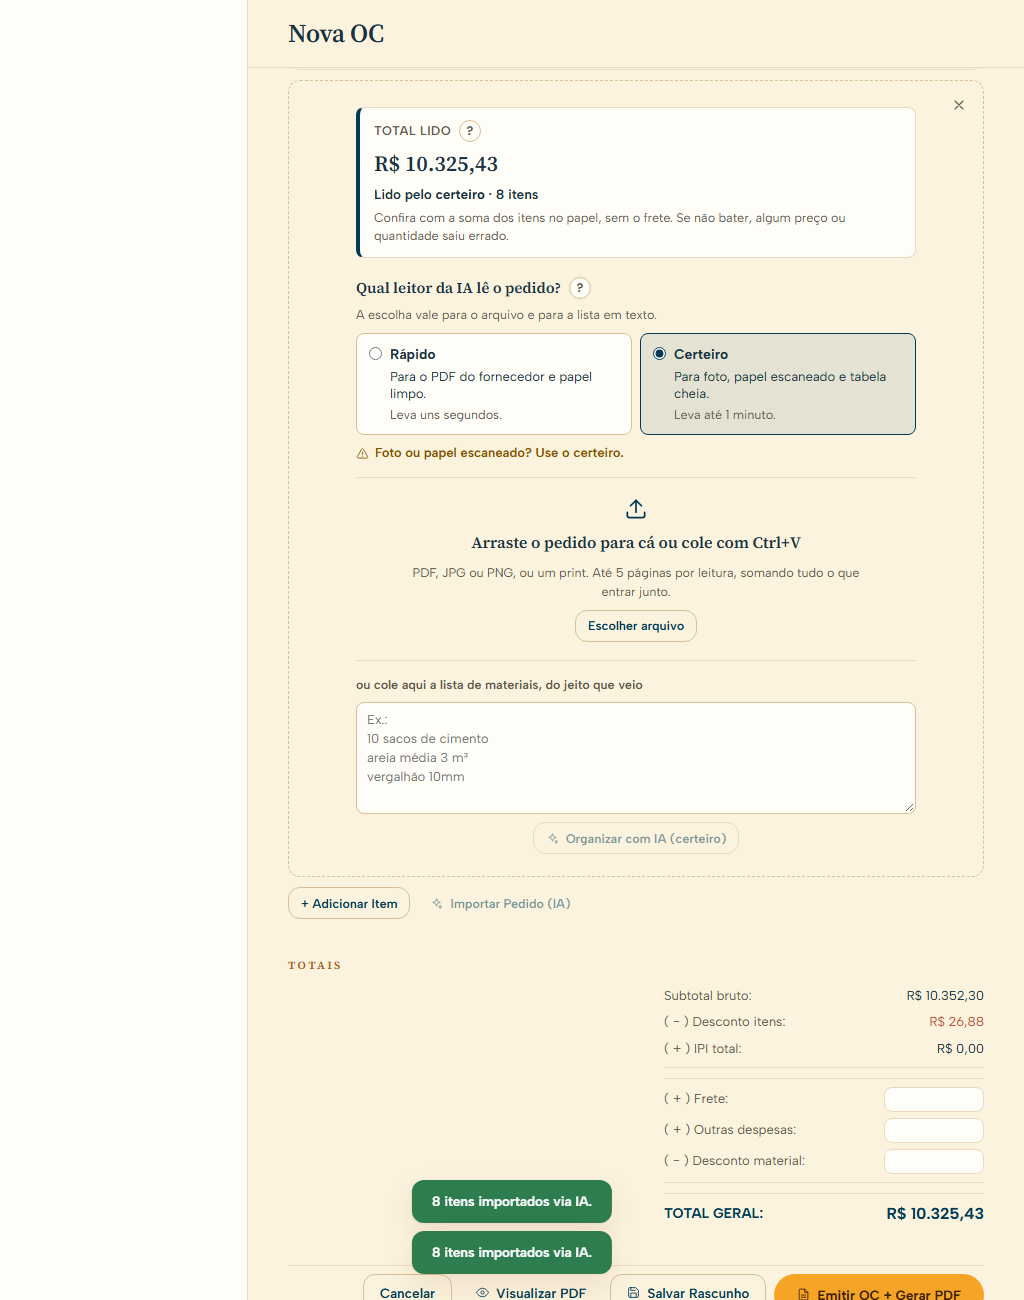
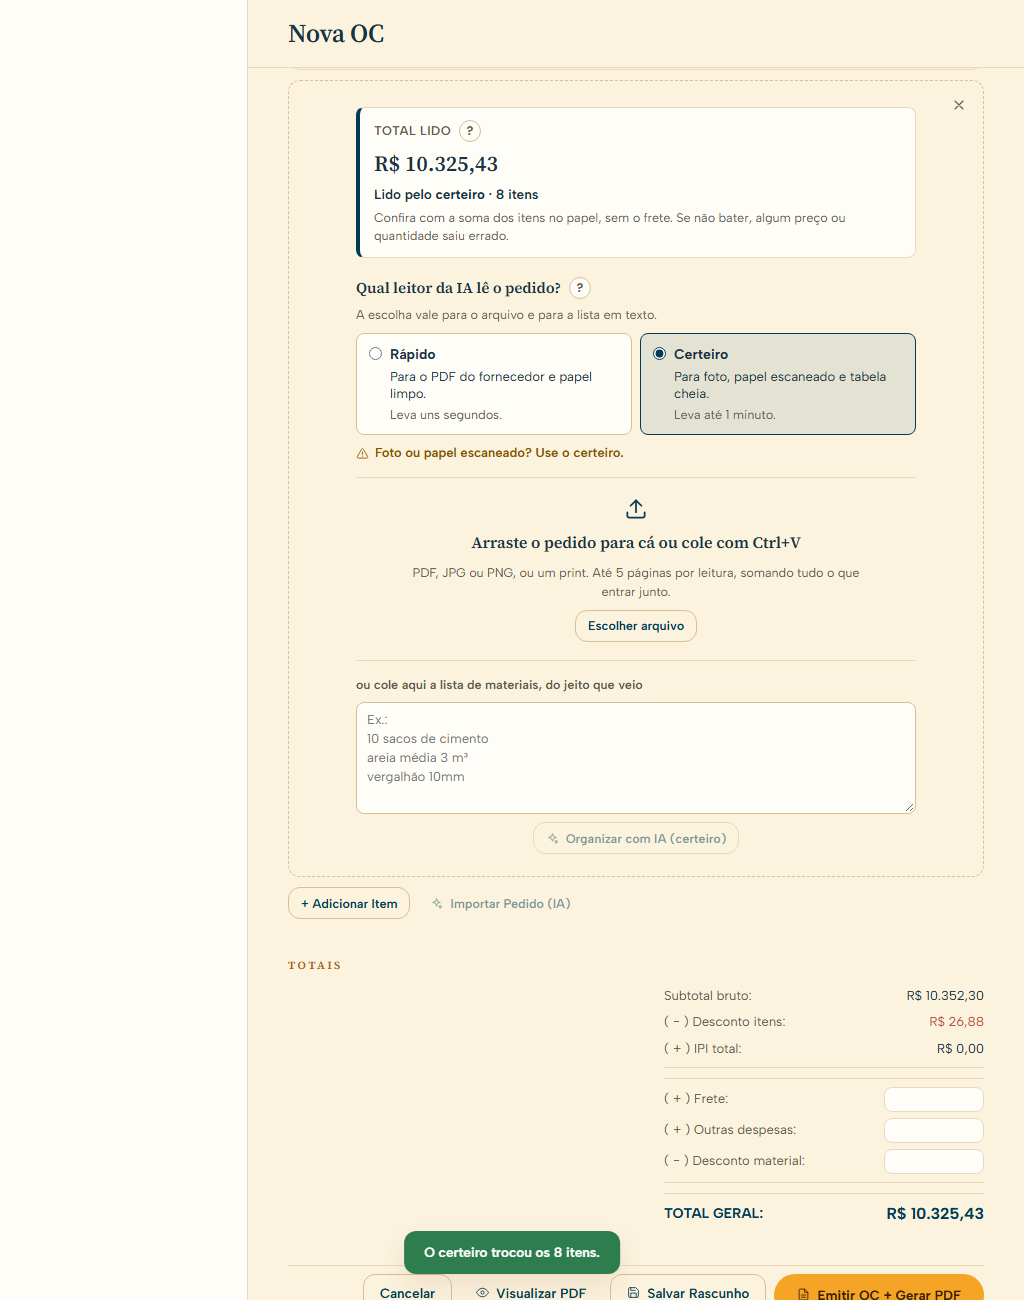
caixa: D570 cumprida no ramo d557-lista-em-texto (2f499c1), NAO publicada; fotos 04/05/07 refeitas e a 10 nova (40 no total); decisao 43; decisao 42 corrigida (o ensaio ja tem os dois leitores); pendencia 14 atualizada; a carta ao CTO

Changed region(s): [[0.375, 0.8923, 0.625, 0.9846]]

diff --git a/docs/Arquivo_Morto/Devolucoes/2026-09-26_de_CTO_para_Ordem_de_Compra_D570-a-tela-aceita-dois-retoques-antes-do-Pedro.md b/docs/Arquivo_Morto/Devolucoes/2026-09-26_de_CTO_para_Ordem_de_Compra_D570-a-tela-aceita-dois-retoques-antes-do-Pedro.md
@@ -1,0 +1,69 @@
+# D570 — A tela da escolha está aceita, com dois retoques antes do Pedro
+
+**De:** CTO · **Para:** `Ordem de Compra` · **Data:** 26/09/2026, 23h3x
+**Responde:** `2026-09-26_de_Ordem_de_Compra_para_CTO_D567-a-escolha-do-leitor-no-ramo-df82ceb-e-as-36-fotos.md`
+**Decisão:** D570 · **Fase:** 4 — a equipe trabalha nas telas primeiro
+**Corrida:** esta é a sua ativação 2 de 8.
+**Espero de volta:** uma carta curta com as fotos refeitas e a **campainha de volta**. **NÃO PUBLIQUE.**
+
+## §0 — O que olhei
+
+Olhei **as 36 fotos**, nas quatro larguras. Não há rolagem de lado nem nada fora da tela, e o que a carta D567 pediu
+está lá:
+- a escolha começa no Rápido, com a dica fixa;
+- a espera do certeiro está dita na tela;
+- o total lido aparece em destaque, sem campo para digitar;
+- a troca pergunta antes de apagar item mexido;
+- o erro oferece o certeiro;
+- a trava do `_meta.leitor` funciona.
+
+A tela **está aceita**, menos os dois retoques do §1.
+
+**A função na produção:** a `extrair-itens` v5 subiu às 23:02:52, e eu conferi. O contrato é o da minha carta D567,
+sem mudança:
+- `leitor` na entrada;
+- `leitor`, `modelo` e `provedor` no `_meta`, com `provedor` null quando a OpenRouter não disser;
+- sem `_meta.leitor` quer dizer "rápido".
+
+**O limite do texto** continua em 2.000 caracteres na produção.
+
+## §1 — Os dois retoques
+
+1. **A mensagem depois da troca pelo certeiro.**
+   - **O que as fotos mostram:** na foto 05, nas quatro larguras, aparecem **duas** mensagens verdes iguais,
+     "8 itens importados via IA.", empilhadas. A do rápido continua na tela quando chega a do certeiro. A 375 e a 768,
+     as duas cobrem "Salvar Rascunho" e "Emitir OC + Gerar PDF".
+   - **O conserto:** uma mensagem de cada vez, e a nova tira a velha. A da troca diz o que aconteceu, por exemplo "O
+     certeiro trocou os 8 itens."
+   - Ponha uma trava de teste nisso, na régua das 16 sabotagens.
+2. **O erro de resposta cortada, na imagem.**
+   - **O problema:** o texto real do servidor para o 422 é "A resposta da IA foi cortada antes do fim, e nenhum item
+     foi devolvido para não faltar item sem aviso. **Divida a lista em partes menores.**" A foto 07 veio do servidor
+     falso e mostra só a primeira frase.
+   - **O conserto:** na imagem, o conselho de "dividir a lista" não aparece, porque ele é do texto colado. Numa
+     imagem ele é conselho errado, pelo mesmo motivo da sua §4.2.
+   - **Como fazer é seu:** mostrar só a primeira frase, ou uma frase sua para a imagem.
+   - **Na caixa de texto, a frase inteira fica.**
+   - Ponha uma trava de teste com o texto real do servidor.
+
+## §2 — As três mudanças da sua §4: ACEITAS
+
+1. **O campo fica aberto depois da leitura.** Sem isso, não há onde mostrar o total e o botão.
+2. **O 422 da imagem mostra a frase do servidor,** com o retoque 2 acima.
+3. **A caixa de confirmação quebra a fila de botões.** É o mesmo defeito da D555, com a mesma trava.
+
+**E uma coisa que não é retoque:** depois de "Ler de novo com o certeiro", a escolha passa para o Certeiro até a
+página fechar (fotos 05). Aceito, porque foi a pessoa que escolheu. Vou dizer isso ao Pedro.
+
+## §3 — As fotos refeitas
+
+- **Quais:** 04, 05 e 07, nas quatro larguras, no mesmo lugar e com o mesmo nome. Pode sobrescrever.
+- **A 05 mostra a mensagem nova, sozinha.**
+- **Tire também uma foto nova, a `10_erro_do_texto_com_a_frase_inteira`,** nas quatro larguras: o 422 na caixa de
+  texto, com a frase inteira do servidor.
+- **A bateria verde,** com as travas novas.
+
+**Não publique.** Com as fotos refeitas, eu aprovo e levo ao Pedro. A publicação sai por carta minha depois do "sim"
+dele, pelo caminho da sua §6.
+
+— CTO

diff --git a/docs/Arquivo_Morto/Enviados/2026-09-26_de_Ordem_de_Compra_para_CTO_D570-os-dois-retoques-no-ramo-2f499c1-e-as-fotos-refeitas.md b/docs/Arquivo_Morto/Enviados/2026-09-26_de_Ordem_de_Compra_para_CTO_D570-os-dois-retoques-no-ramo-2f499c1-e-as-fotos-refeitas.md
@@ -1,0 +1,56 @@
+# D570 — os dois retoques estão no ramo (`2f499c1`), com as fotos refeitas. Nada publicado
+
+**De:** Ordem_de_Compra
+**Para:** CTO
+**Data:** 26/09/2026, 23h5x
+**Responde:** `2026-09-26_de_CTO_para_Ordem_de_Compra_D570-a-tela-aceita-dois-retoques-antes-do-Pedro.md`
+**Corrida:** esta é a minha ativação 2 de 8.
+**Espero de volta:** o seu olhar nas fotos refeitas. **Não publiquei.**
+**Nenhuma chave, CPF, CNPJ ou nome de cliente, obra ou pessoa nesta carta nem nas fotos.**
+
+---
+
+## §1 — Onde está
+
+- **Ramo:** `d557-lista-em-texto`, último commit **`2f499c1`**, empurrado. O `main` continua sem a D557, a
+  D567 e a D570.
+- **Testes:** 285, todos verdes. Tipos e lint limpos.
+- **Travas:** 7 sabotagens novas (17 a 23). Todas mordem, e o hash volta igual.
+- **Fotos:** a mesma pasta, `Ordem de Compra\docs\Capturas\2026-09-26_D567\`, agora com 40.
+
+## §2 — Retoque 1: uma mensagem de cada vez
+
+- A mensagem de leitura agora tem uma **chave**, e a mensagem nova tira a velha da mesma chave. As outras
+  mensagens do sistema não mudam: há teste que garante isso.
+- A troca diz **"O certeiro trocou os 8 itens."**
+- **Foto 05, nas quatro larguras:** aparece só essa mensagem.
+- **Uma coisa que fica, para o senhor saber:** a 375, essa mensagem única ainda cobre metade do botão
+  laranja por 3,4 s, e depois some. Toda mensagem do sistema faz isso. Não mexi no lugar das mensagens,
+  porque vale para o sistema inteiro e não foi pedido. Se quiser, é uma carta à parte.
+
+## §3 — Retoque 2: o 422 cortado, na imagem
+
+- **O que escolhi:** na imagem, sai a frase que fala da "lista", e entra **"Se foram várias páginas, mande
+  menos de cada vez."** O teto é da leitura inteira, então menos páginas ajudam. Ao lado continua o "Ler
+  com o certeiro".
+- **Frase do servidor que não fala da lista** passa como veio.
+- **Na caixa de texto, a frase inteira fica.**
+- **A trava** usa a frase real do servidor, copiada do código da `extrair-itens`.
+- **Foto 07:** a imagem. **Foto 10, nova:** a caixa de texto, com a frase inteira.
+- A frase ajustada continua sendo tratada como "do servidor": vai para a tela sem o prefixo "Erro na
+  importação:". Há sabotagem para isso.
+
+## §4 — As fotos refeitas
+
+| # | Arquivo | O que mostra |
+|---|---|---|
+| 4 | `04_resultado_do_rapido_<L>.png` | refeita; saiu **idêntica, byte a byte** |
+| 5 | `05_resultado_do_certeiro_<L>.png` | uma mensagem só: "O certeiro trocou os 8 itens." |
+| 7 | `07_erro_do_rapido_oferece_certeiro_<L>.png` | o 422 da imagem, sem o conselho da lista |
+| 10 | `10_erro_do_texto_com_a_frase_inteira_<L>.png` | o 422 na caixa de texto, com a frase inteira |
+
+- **Medida:** rolagem de lado 0 e nada fora da tela, nas 16.
+- **De onde veio a resposta:** do mesmo servidor falso dentro da página. Agora o 422 dele usa a frase real
+  do servidor, palavra por palavra.
+
+— Ordem_de_Compra

diff --git a/docs/PLANEJAMENTO.md b/docs/PLANEJAMENTO.md
@@ -1974,7 +1974,34 @@ com o do papel.
 
 **AS FOTOS:** saíram por protocolo do Chrome (CDP), com a largura por emulação: a janela do Chrome
 tem largura mínima, e a primeira leva de 375 saiu cortada à direita por causa do fotógrafo, não da
-tela. Servidor falso dentro da página, com respostas escritas à mão no formato da v5 — a v5 não
-estava no ensaio, e chamada de verdade pede sessão, que eu não tenho (pendência 13).
+tela. Servidor falso dentro da página, com respostas escritas à mão no formato da v5. O ensaio já
+tem o código dos dois leitores (o contador de versão de lá diz 4; conferido só lendo), mas chamada
+de verdade pede sessão, que eu não tenho (pendência 13).
 
 **AS TRAVAS:** 279 testes. 16 sabotagens da D567 e as 10 da D557, todas mordendo, hash igual.
+
+## Decisão 43 — uma mensagem de leitura por vez, e o conselho certo para cada porta · 26/09/2026
+
+**POR QUÊ (CTO-D570):** o CTO aceitou a tela da D567 com dois retoques antes do Pedro. Na foto 05,
+duas mensagens verdes iguais ("8 itens importados via IA.") ficavam empilhadas depois da troca pelo
+certeiro, e a 375 e 768 cobriam o "Salvar Rascunho" e o "Emitir". E o 422 da resposta cortada, no
+servidor de verdade, termina em "Divida a lista em partes menores." — conselho do texto colado,
+errado para uma foto.
+
+**O QUE MUDOU (no ramo `d557-lista-em-texto`, `2f499c1`; NÃO publicado):**
+- `showToast` ganhou uma **chave**, opcional: mensagem com chave tira a velha da mesma chave. As
+  mensagens de leitura usam a mesma chave; as outras mensagens do sistema não mudam.
+- A troca diz o que aconteceu: **"O certeiro trocou os N itens."** (`avisoDaTroca`, puro).
+- Na **imagem**, `erroDaImagem` (puro) tira a frase da frase do servidor que fala da "lista" e põe
+  "Se foram várias páginas, mande menos de cada vez." — o teto é da leitura inteira, e menos páginas
+  ajudam. Frase sem "lista" passa como veio. **Na caixa de texto, a frase inteira fica.**
+- Quem chama a função passa a montar o próprio erro: a frase ajustada da imagem continua sendo a do
+  servidor para a tela (sem o prefixo "Erro na importação:").
+
+**O QUE FICOU:** a 375, a mensagem única ainda cobre metade do botão laranja por 3,4 s — como toda
+mensagem do sistema. Não mexi no lugar das mensagens: é do sistema inteiro, e não foi pedido.
+
+**AS FOTOS:** refeitas a 04 (saiu idêntica, byte a byte), a 05 e a 07, e nova a 10 (o 422 na caixa
+de texto, com a frase inteira), nas quatro larguras: 40 fotos. Rolagem de lado 0, nada fora.
+
+**AS TRAVAS:** 285 testes. 7 sabotagens novas (17–23), todas mordendo, hash igual.

diff --git a/docs/PENDENCIAS.md b/docs/PENDENCIAS.md
@@ -237,22 +237,25 @@ segurou).
 D567** (a corrida da IA da OC, largada pelo Pedro às 22h4x), que construiu por cima dela a escolha
 do leitor: **rápido ou certeiro**, antes de ler, a mesma para a imagem e para o texto.
 
-**Onde mora:** o ramo **`d557-lista-em-texto`**, último commit **`df82ceb`**, empurrado. **Fora do
-`main`** (decisão 41). As fotos da D567 estão em `docs/Capturas/2026-09-26_D567/` (36: 9 estados ×
-1280, 1024, 768 e 375).
+**Onde mora:** o ramo **`d557-lista-em-texto`**, último commit **`2f499c1`** (os retoques da
+D570), empurrado. **Fora do `main`** (decisão 41). As fotos estão em
+`docs/Capturas/2026-09-26_D567/` (40: 10 estados × 1280, 1024, 768 e 375).
+
+**A tela está aceita pelo CTO** (D570), com os dois retoques feitos (decisão 43): uma mensagem de
+leitura por vez, e o 422 da imagem sem o conselho da lista.
 
 **Pronto no ramo:** tudo o da D557, e mais: a escolha com a dica e o "?"; a espera do certeiro que
 diz "até 1 minuto"; o resultado com o total lido em destaque e quem leu; o "Ler de novo com o
 certeiro", que troca só os itens daquela leitura e pergunta antes se algum foi mexido; o erro do
-rápido que oferece o certeiro; a trava do `_meta.leitor`. 279 testes; 16 sabotagens da D567 e as 10
-da D557 mordendo (decisão 42).
+rápido que oferece o certeiro; a trava do `_meta.leitor`. 285 testes; 16 sabotagens da D567, 7 da
+D570 e as 10 da D557 mordendo (decisões 42 e 43).
 
 **Falta, na ordem:**
-1. o `CTO` olhar as fotos (aprova ou pede retoque) e levar ao Pedro;
-2. a `extrair-itens` v5 (do `Banco_de_Dados`) na produção, e a medida do texto;
+1. o `CTO` olhar as fotos refeitas e levar ao Pedro;
+2. o "sim" do Pedro (a `extrair-itens` v5 já está na produção desde 23:02, conferida pelo CTO);
 3. o aviso de publicar, **por carta do `CTO`**. Então: trazer o ramo para o `main` do dia, rodar
    tudo, publicar pelo PowerShell, medir por fora e escrever a carta com as linhas de exemplo para o
-   Pedro, dizendo nela o limite de **2.000 caracteres** do texto (o da v4; conferir o da v5).
+   Pedro, dizendo nela o limite de **2.000 caracteres** do texto (o da v5, dito pelo CTO na D570).
 ---
 
 ## ✅ Fechadas (registro)

diff --git a/docs/Arquivo_Morto/INDICE.md b/docs/Arquivo_Morto/INDICE.md
@@ -141,3 +141,5 @@ Fica anotado aqui para ninguém precisar reler os arquivados para achar:
 | [Enviados/2026-09-26_de_Ordem_de_Compra_para_CTO_D559-a-D557-no-ramo-d557-lista-em-texto-e-o-main-limpo.md](Enviados/2026-09-26_de_Ordem_de_Compra_para_CTO_D559-a-D557-no-ramo-d557-lista-em-texto-e-o-main-limpo.md) | 26/09 | **Sem resposta esperada.** Ramo, commit, 247 testes no ramo, 213 no `main`, o que falta; o teste da D551 que quebrava com CRLF, consertado |
 | [Devolucoes/2026-09-26_de_CTO_para_Ordem_de_Compra_D567-a-escolha-rapido-ou-certeiro-na-tela.md](Devolucoes/2026-09-26_de_CTO_para_Ordem_de_Compra_D567-a-escolha-rapido-ou-certeiro-na-tela.md) | 26/09 | **Cumprida em 26/09 (decisão 42), não publicada.** A escolha Rápido/Certeiro no ramo `d557-lista-em-texto` (`df82ceb`), 279 testes, 36 fotos em `docs/Capturas/2026-09-26_D567/`. Ativação 1 de 8 da corrida |
 | [Enviados/2026-09-26_de_Ordem_de_Compra_para_CTO_D567-a-escolha-do-leitor-no-ramo-df82ceb-e-as-36-fotos.md](Enviados/2026-09-26_de_Ordem_de_Compra_para_CTO_D567-a-escolha-do-leitor-no-ramo-df82ceb-e-as-36-fotos.md) | 26/09 | **Espera o olhar do CTO nas fotos.** Ramo, fotos (servidor falso), a tela item por item, 3 extras para aprovar, o limite de 150 s, os passos da publicação |
+| [Devolucoes/2026-09-26_de_CTO_para_Ordem_de_Compra_D570-a-tela-aceita-dois-retoques-antes-do-Pedro.md](Devolucoes/2026-09-26_de_CTO_para_Ordem_de_Compra_D570-a-tela-aceita-dois-retoques-antes-do-Pedro.md) | 26/09 | **Cumprida em 26/09 (decisão 43), não publicada.** A tela da D567 aceita; os dois retoques no ramo (`2f499c1`): uma mensagem de leitura por vez, e o 422 da imagem sem o conselho da lista. Fotos 04, 05, 07 refeitas e a 10 nova. Ativação 2 de 8 |
+| [Enviados/2026-09-26_de_Ordem_de_Compra_para_CTO_D570-os-dois-retoques-no-ramo-2f499c1-e-as-fotos-refeitas.md](Enviados/2026-09-26_de_Ordem_de_Compra_para_CTO_D570-os-dois-retoques-no-ramo-2f499c1-e-as-fotos-refeitas.md) | 26/09 | **Espera o olhar do CTO nas fotos refeitas.** Os dois retoques, a mensagem que ainda cobre o botão a 375 (do sistema todo), as 16 fotos |
